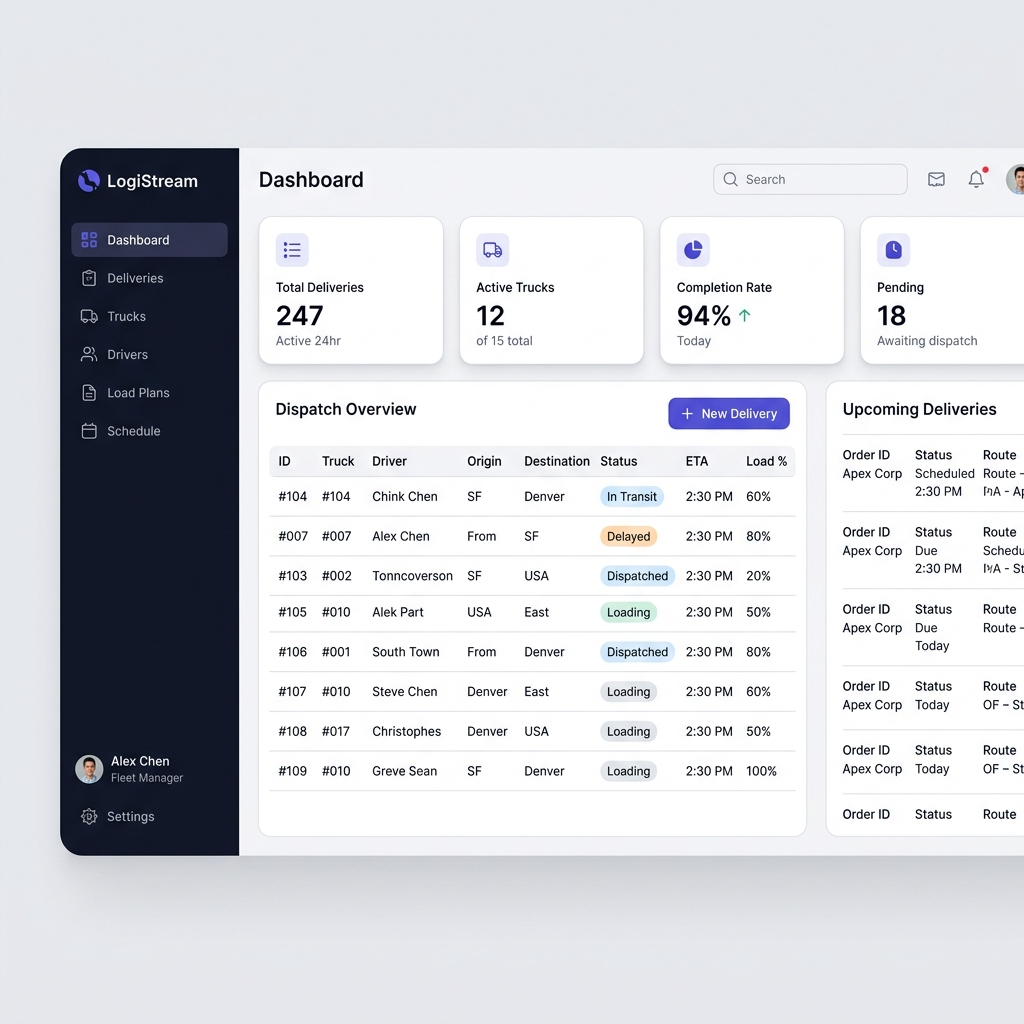
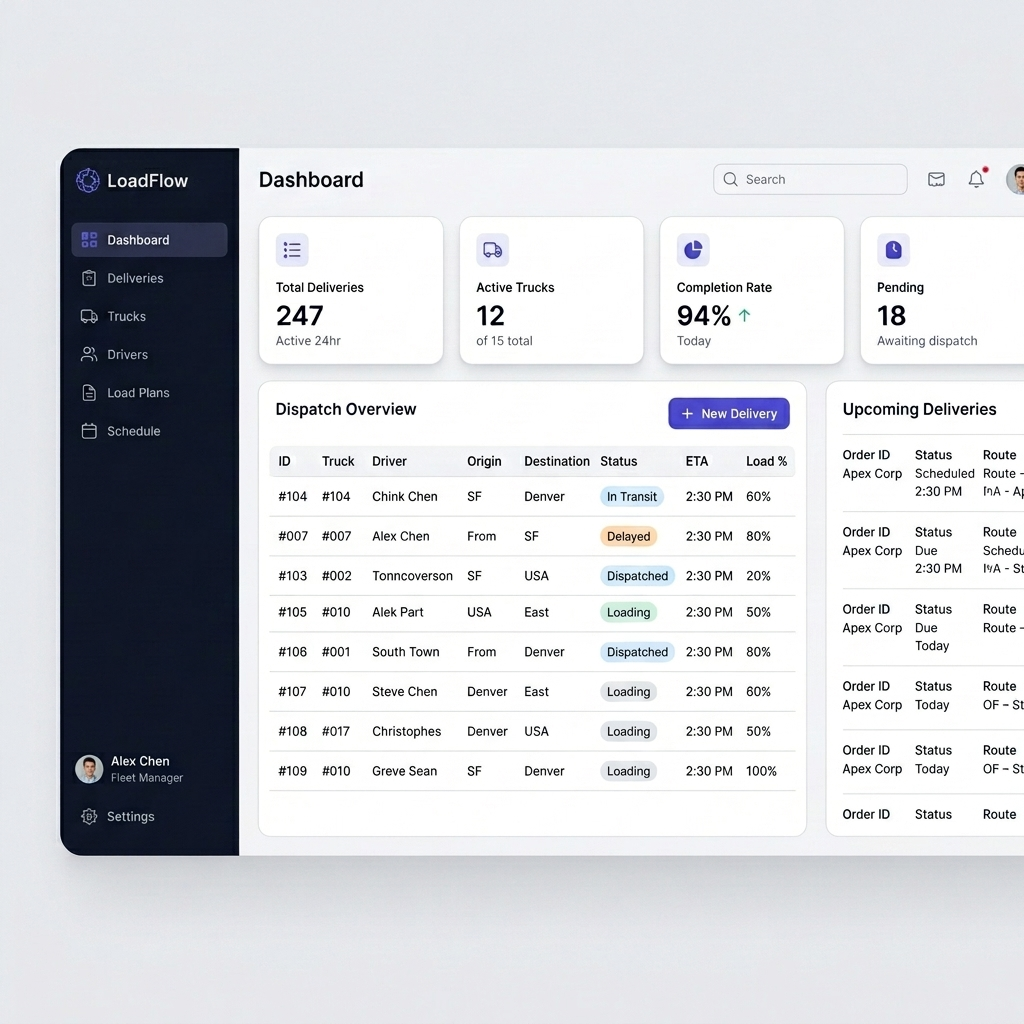
chore: finalize deployment readiness and production launch preparation

Changed region(s): [[0.0625, 0.1562, 0.1875, 0.1875], [0.6562, 0.2188, 0.6875, 0.25]]

diff --git a/components/landing/LandingStats.tsx b/components/landing/LandingStats.tsx
@@ -1,81 +1,44 @@
 'use client';
 
 import React, { useEffect, useRef, useState } from 'react';
-import { Package, Truck, Clock, Shield } from 'lucide-react';
+import { Package, Truck, ClipboardList, Shield } from 'lucide-react';
 
 const metrics = [
   {
-    label: 'Deliveries Tracked',
-    value: 10000,
-    suffix: '+',
-    icon: Package,
+    label: 'Isolated Architecture',
+    value: 'Multi-Tenant',
+    suffix: ' SaaS',
+    icon: Shield,
     gradient: 'from-blue-500 to-indigo-600',
   },
   {
-    label: 'Trucks Managed',
-    value: 500,
-    suffix: '+',
+    label: 'Asset Management',
+    value: 'Fleet',
+    suffix: ' Ops',
     icon: Truck,
     gradient: 'from-indigo-500 to-violet-600',
   },
   {
-    label: 'Hours Saved Weekly',
-    value: 40,
-    suffix: '+',
-    icon: Clock,
+    label: 'End-to-End Tracking',
+    value: 'Dispatch',
+    suffix: ' Flow',
+    icon: ClipboardList,
     gradient: 'from-violet-500 to-purple-600',
   },
   {
-    label: 'Platform Uptime',
-    value: 99.9,
-    suffix: '%',
-    icon: Shield,
+    label: 'Granular Control',
+    value: 'Itemized',
+    suffix: ' Loads',
+    icon: Package,
     gradient: 'from-purple-500 to-fuchsia-600',
-    isDecimal: true,
   },
 ];
 
-function useCountUp(target: number, isDecimal: boolean, shouldAnimate: boolean) {
-  const [count, setCount] = useState(0);
-
-  useEffect(() => {
-    if (!shouldAnimate) return;
-
-    const duration = 2000;
-    const steps = 60;
-    const stepTime = duration / steps;
-    let current = 0;
-
-    const timer = setInterval(() => {
-      current++;
-      const progress = current / steps;
-      // Ease-out cubic
-      const eased = 1 - Math.pow(1 - progress, 3);
-      const val = eased * target;
-
-      setCount(isDecimal ? parseFloat(val.toFixed(1)) : Math.floor(val));
-
-      if (current >= steps) {
-        setCount(target);
-        clearInterval(timer);
-      }
-    }, stepTime);
-
-    return () => clearInterval(timer);
-  }, [target, isDecimal, shouldAnimate]);
-
-  return count;
-}
-
 function MetricCard({
   metric,
-  shouldAnimate,
 }: {
   metric: (typeof metrics)[0];
-  shouldAnimate: boolean;
 }) {
-  const count = useCountUp(metric.value, !!metric.isDecimal, shouldAnimate);
-
   return (
     <div className="relative glass-card rounded-2xl p-8 text-center group hover:bg-white/[0.04] transition-all duration-300">
       {/* Icon */}
@@ -86,8 +49,8 @@ function MetricCard({
       </div>
 
       {/* Value */}
-      <div className="text-4xl sm:text-5xl font-bold text-white mb-2 tabular-nums">
-        {metric.isDecimal ? count.toFixed(1) : count.toLocaleString()}
+      <div className="text-3xl sm:text-4xl font-bold text-white mb-2 tracking-tight">
+        {metric.value}
         <span className="text-primary-400">{metric.suffix}</span>
       </div>
 
@@ -135,7 +98,7 @@ export function LandingStats() {
         {/* Section header */}
         <div className="text-center max-w-2xl mx-auto mb-16 sm:mb-20">
           <p className="text-sm font-semibold uppercase tracking-widest text-primary-400 mb-3">
-            By the Numbers
+            Core Capabilities
           </p>
           <h2 className="text-3xl sm:text-4xl lg:text-5xl font-bold tracking-tight text-white">
             Built for <span className="gradient-text">scale</span>
@@ -151,7 +114,6 @@ export function LandingStats() {
             <MetricCard
               key={metric.label}
               metric={metric}
-              shouldAnimate={hasAnimated}
             />
           ))}
         </div>

diff --git a/app/(auth)/login/page.tsx b/app/(auth)/login/page.tsx
@@ -149,6 +149,11 @@ export default function LoginPage() {
           </Link>
         </p>
       </div>
+
+      {/* Access Notice */}
+      <p className="mt-8 text-center text-[13px] leading-relaxed text-slate-400/80 mx-auto px-4">
+        LoadFlow is currently operating in a private preview phase. New organizations are being onboarded selectively while the platform continues to evolve.
+      </p>
     </div>
   );
 }

diff --git a/components/layout/Sidebar.tsx b/components/layout/Sidebar.tsx
@@ -45,7 +45,7 @@ export function Sidebar({ isOpen, onClose, userName, userEmail, userInitial }: S
   const handleSignOut = async () => {
     const supabase = createClient();
     await supabase.auth.signOut();
-    router.push('/login');
+    router.push('/');
     router.refresh();
   };
 

diff --git a/components/settings/SettingsForm.tsx b/components/settings/SettingsForm.tsx
@@ -144,7 +144,7 @@ export function SettingsForm({ email, company }: SettingsFormProps) {
   async function handleSignOut() {
     const supabase = createClient();
     await supabase.auth.signOut();
-    router.push('/login');
+    router.push('/');
     router.refresh();
   }
 